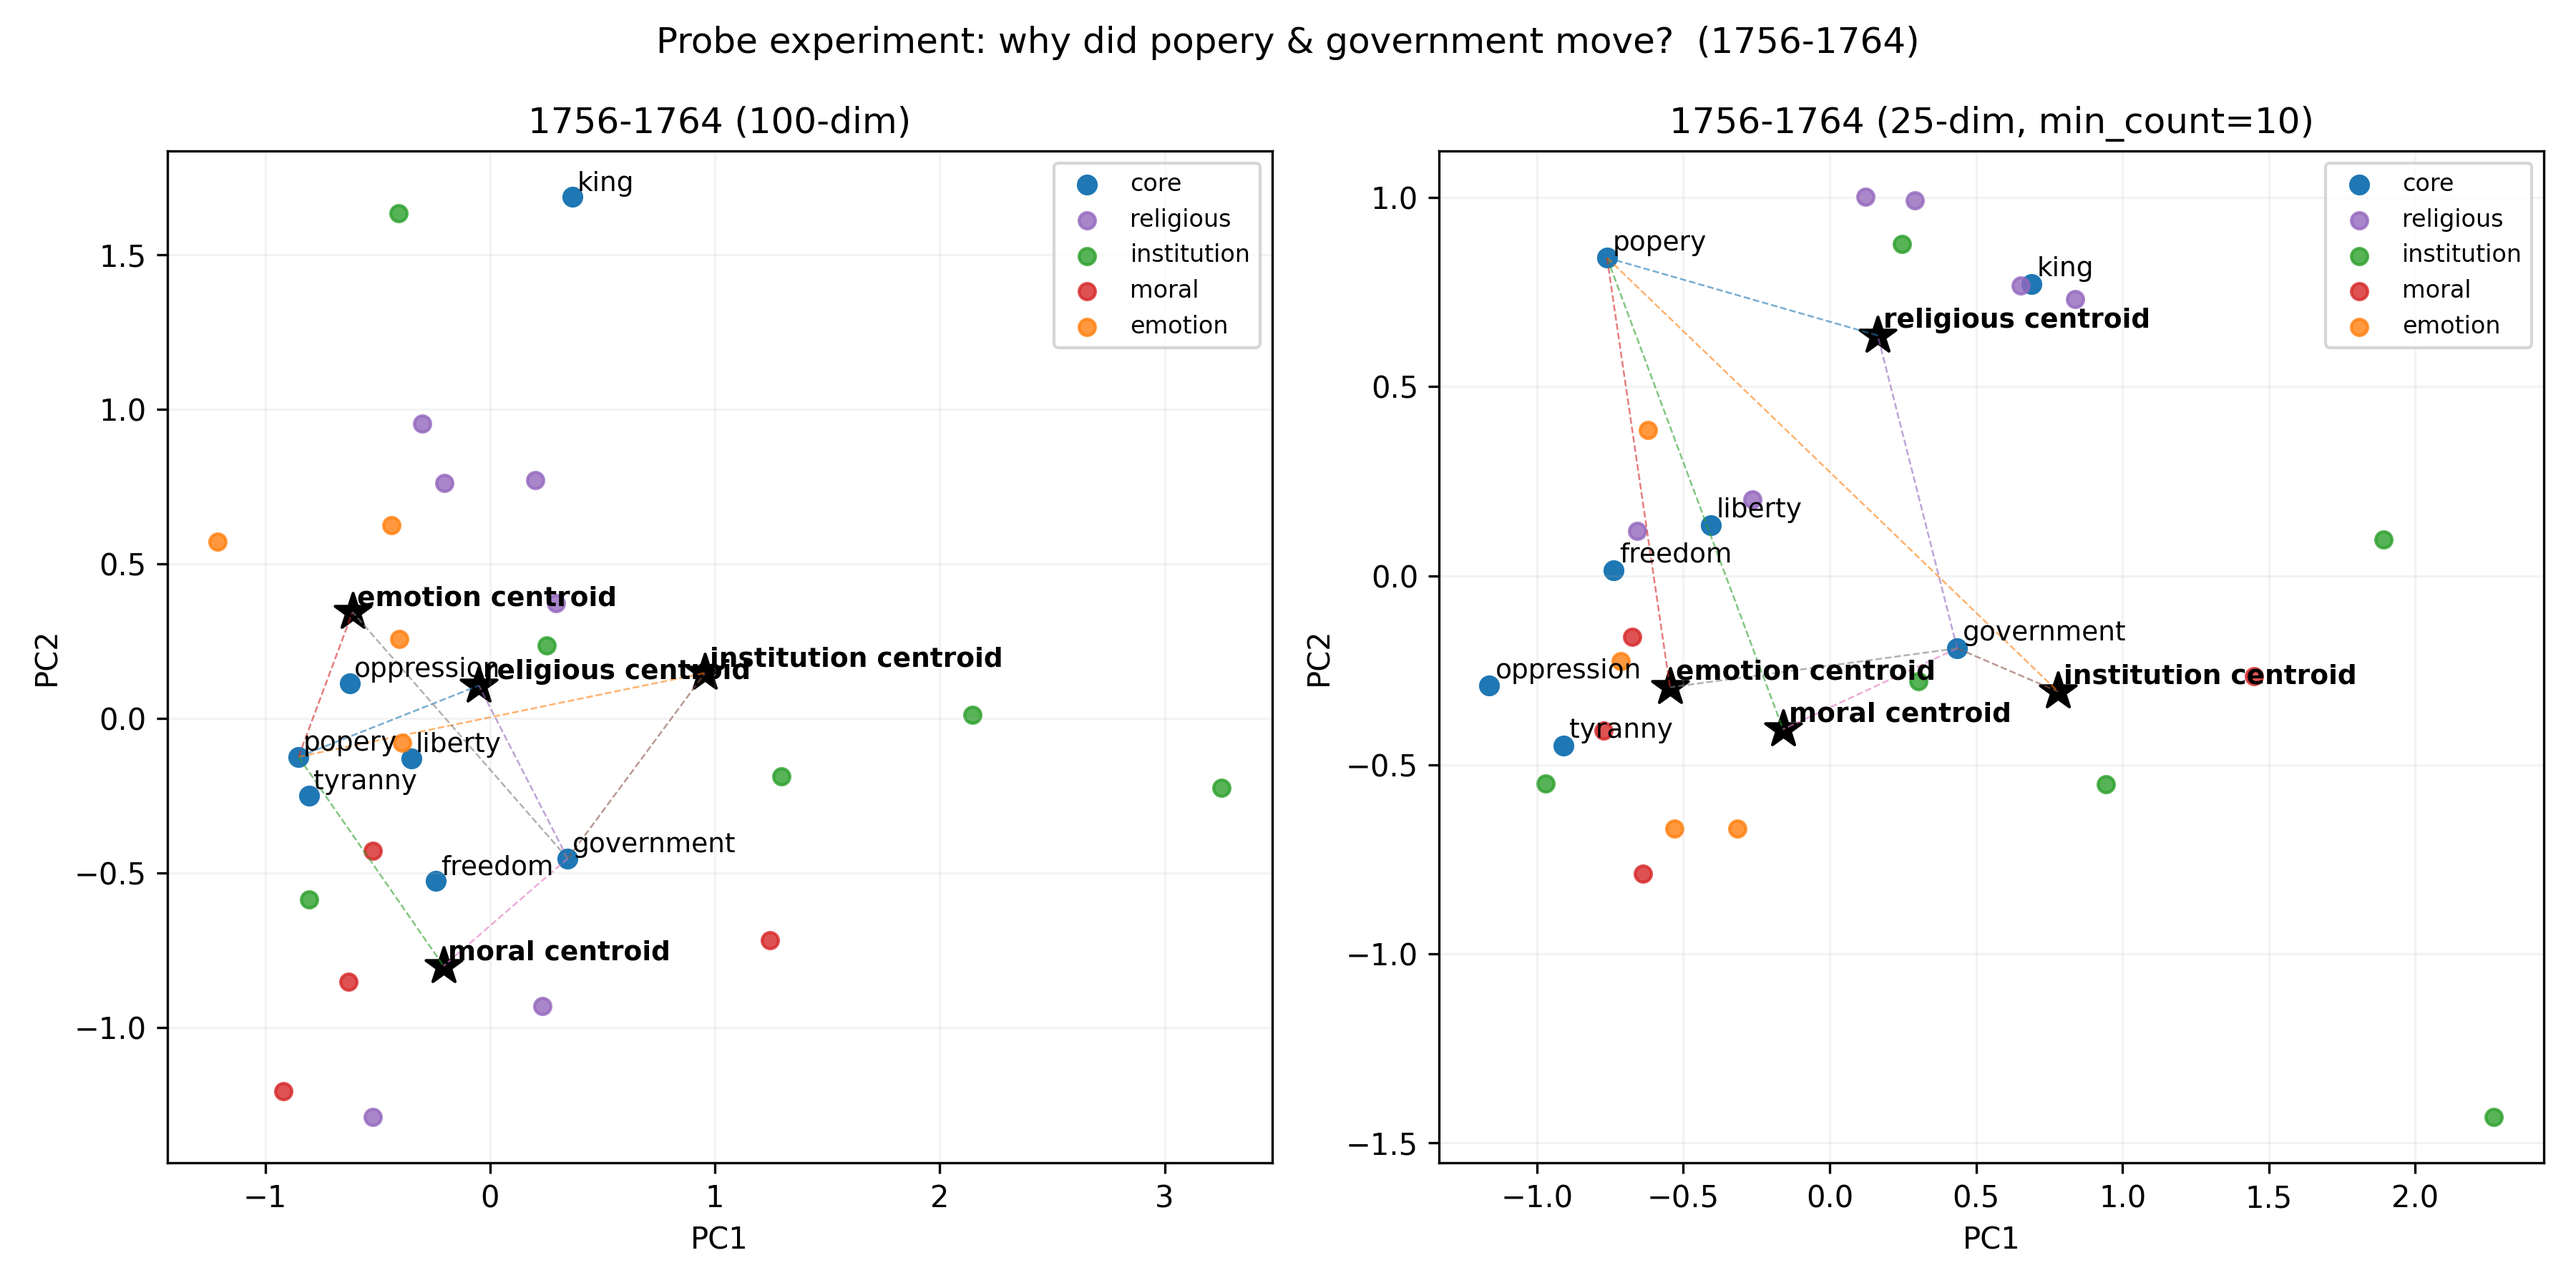
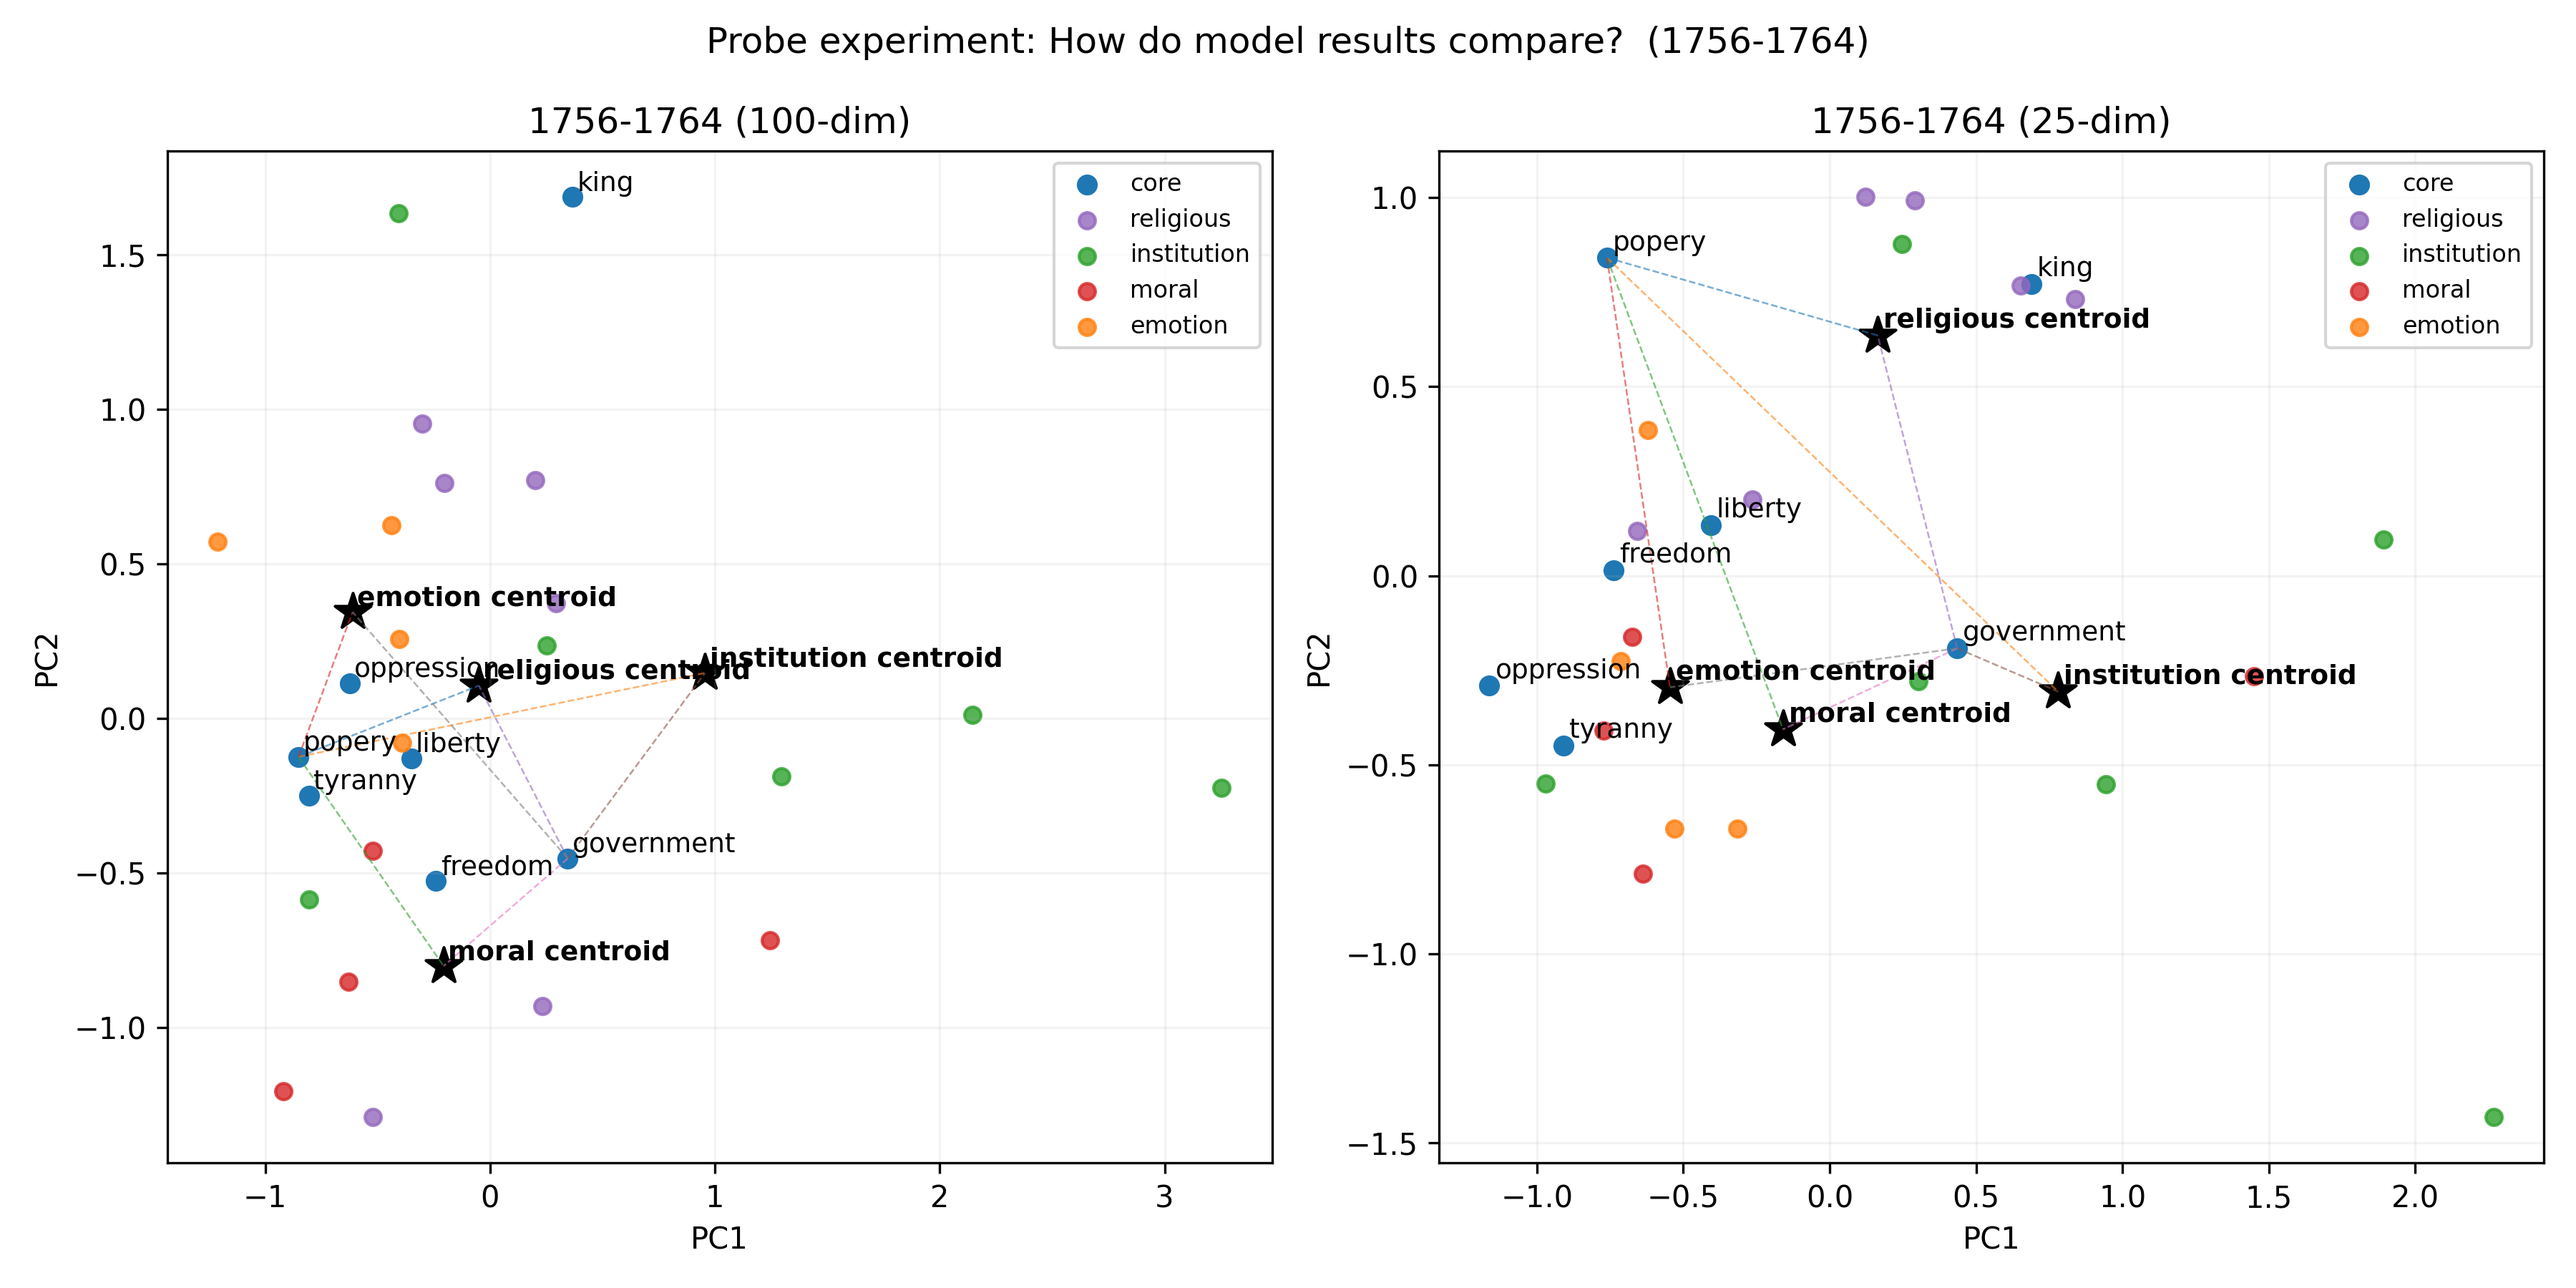
changed titles of plots

Changed region(s): [[0.2489, 0.0, 0.8711, 0.1244]]

diff --git a/comparevecdim.py b/comparevecdim.py
@@ -110,7 +110,7 @@ for period, model_files in pairs.items():
     fig, axes = plt.subplots(1, 2, figsize=(12, 6))
     for ax, title, coords, cents in [
         (axes[0], f"{period} (100-dim)", coords100, cent100),
-        (axes[1], f"{period} (25-dim, min_count=10)", coords25, cent25)
+        (axes[1], f"{period} (25-dim)", coords25, cent25)
     ]:
         # scatter core words
         if "core" in coords:
@@ -153,7 +153,7 @@ for period, model_files in pairs.items():
         ax.legend(loc="best", fontsize=8)
         ax.grid(alpha=0.15)
 
-    plt.suptitle(f"Probe experiment: why did popery & government move?  ({period})")
+    plt.suptitle(f"Probe experiment: How do model results compare?  ({period})")
     plt.tight_layout()
 
     plt.savefig(f"comparemodels/{period}_comparison.png", dpi=300)
